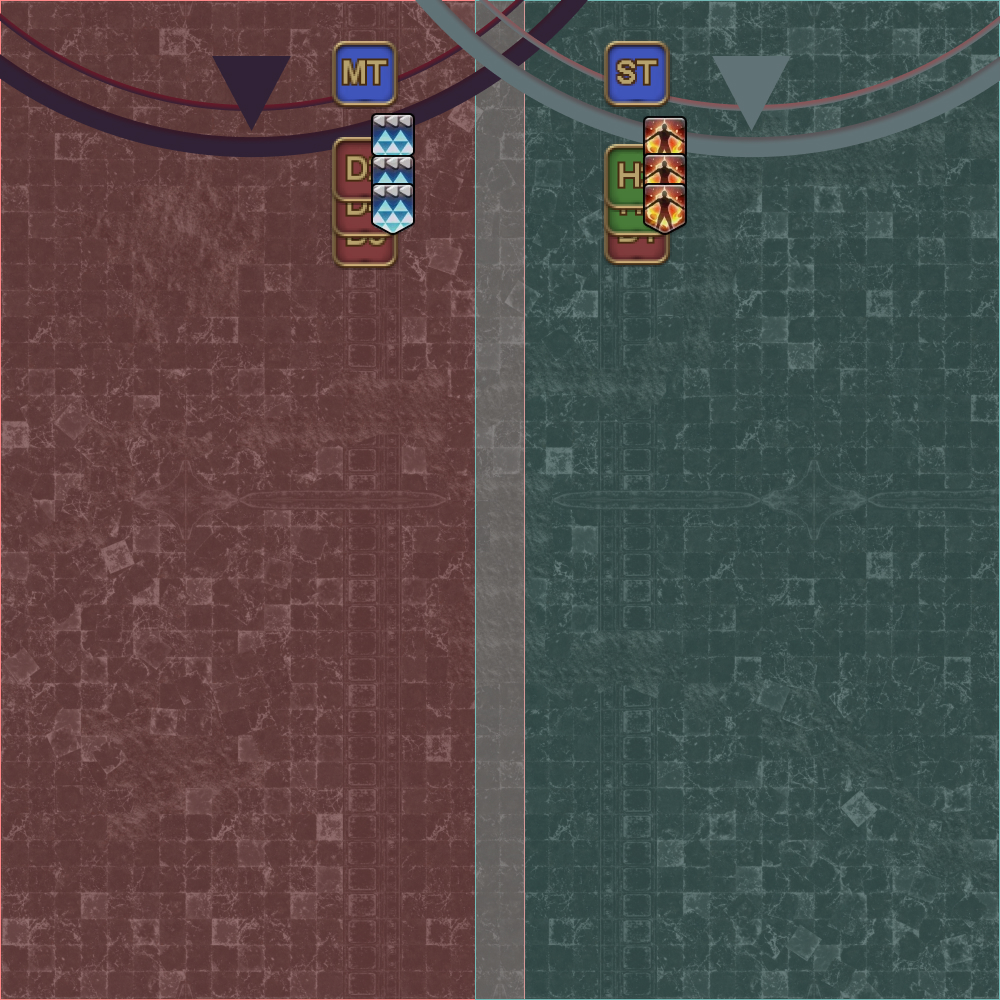
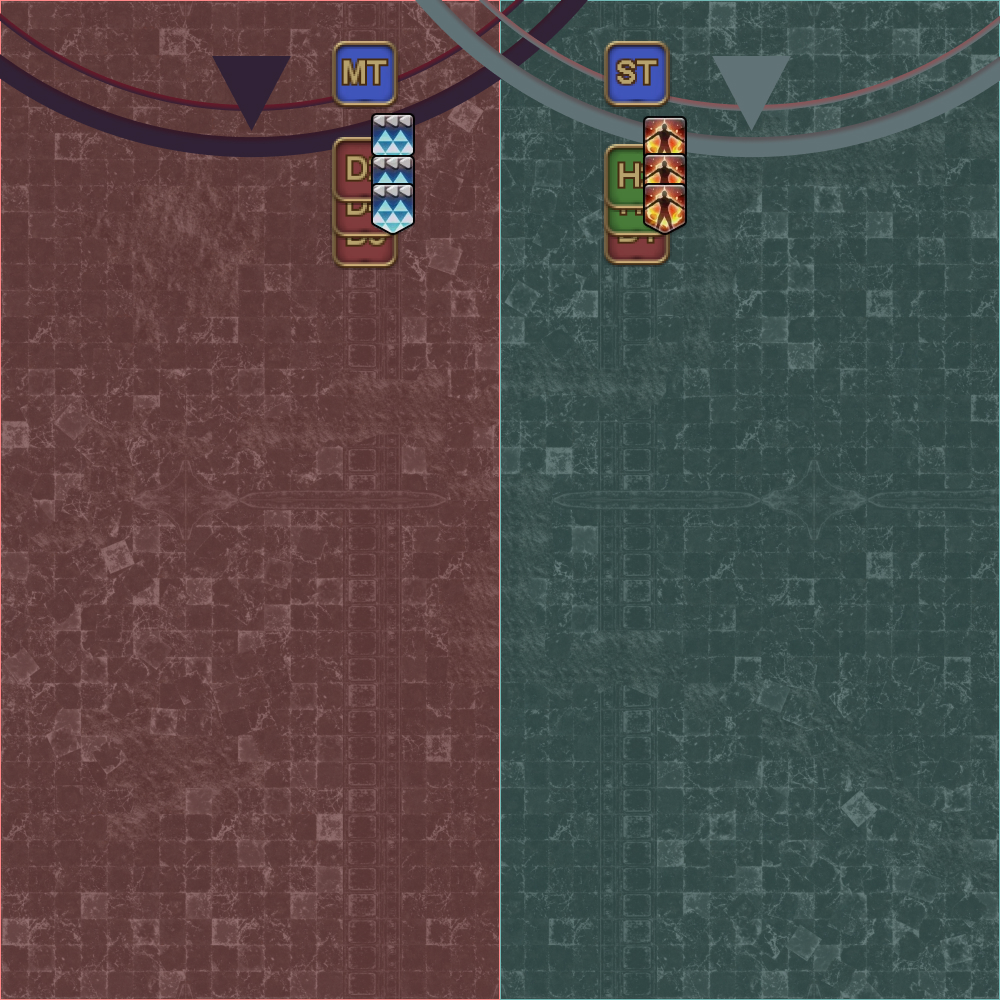
Correct Cauterize info

Changed region(s): [[0.465, 0.0, 0.527, 1.0]]

diff --git a/ultimates/dsr/06_double_dragons.en.md b/ultimates/dsr/06_double_dragons.en.md
@@ -768,8 +768,6 @@ we needed the fire/ice debuffs in order to survive this mechanic.
       <p><b>Do not move</b> as Nidhogg's debuff will turn into Pyretic. The
       resulting damage will result in Hraesvelgr's Cauterize killing you and
       cause Hraesvelgr to enrage.</p>
-      <p>Do not stand directly in the center, as there <em>is</em> a slight
-      overlap.</p>
       <div style="background-color: #200 ; padding: 10px; border: 1px solid;">
         <b>Note:</b> If you have a DRK and are using <em>Living Dead</em> here, 
         neither dragon will be targetable for the DRK to recover HP for <em>Walking Dead</em>.
@@ -934,6 +932,19 @@ You will need about six pieces of party mitigation to survive *Alternative End*.
   </tr>
 </table>
 </details>
+
+<details markdown=block>
+<summary>
+  <b>[Cauterize]</b> Do the Cauterizes overlap? Can you have one tank stand directly in the middle and catch both Cauterizes with invuln?
+</summary>
+<table>
+  <tr>
+    <td>Unfortunately not. Although the Cauterize AoE effects make it 
+    look like the zones overlap, they actually do not.</td>
+  </tr>
+</table>
+</details>
+
 <details markdown=block>
 <summary><b>[General]</b> Can you defeat one dragon early?</summary>
 <table>
